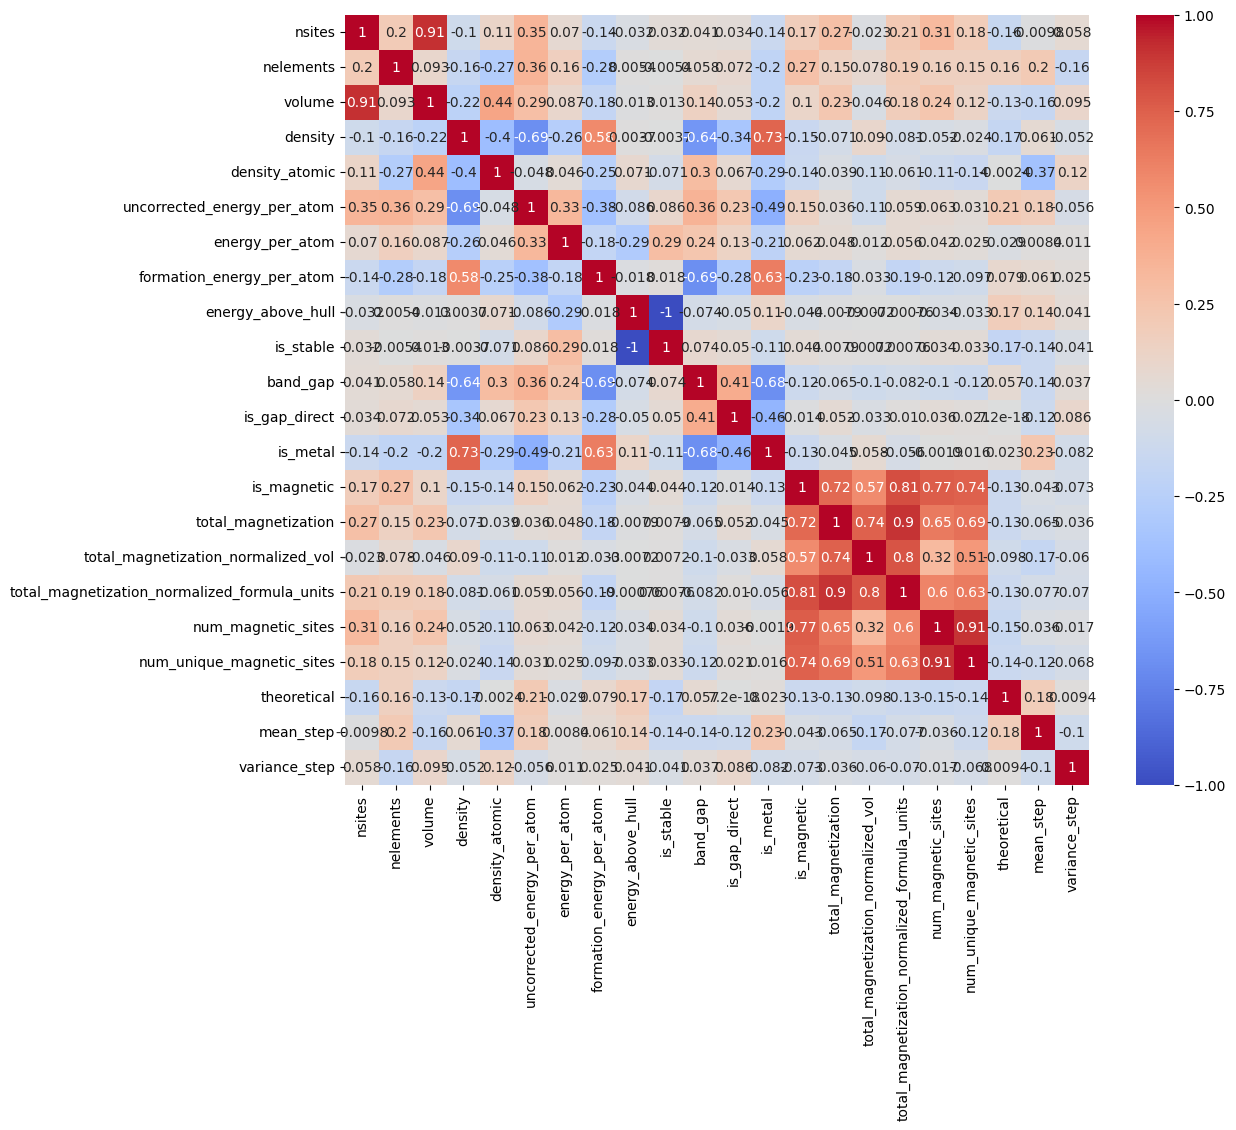
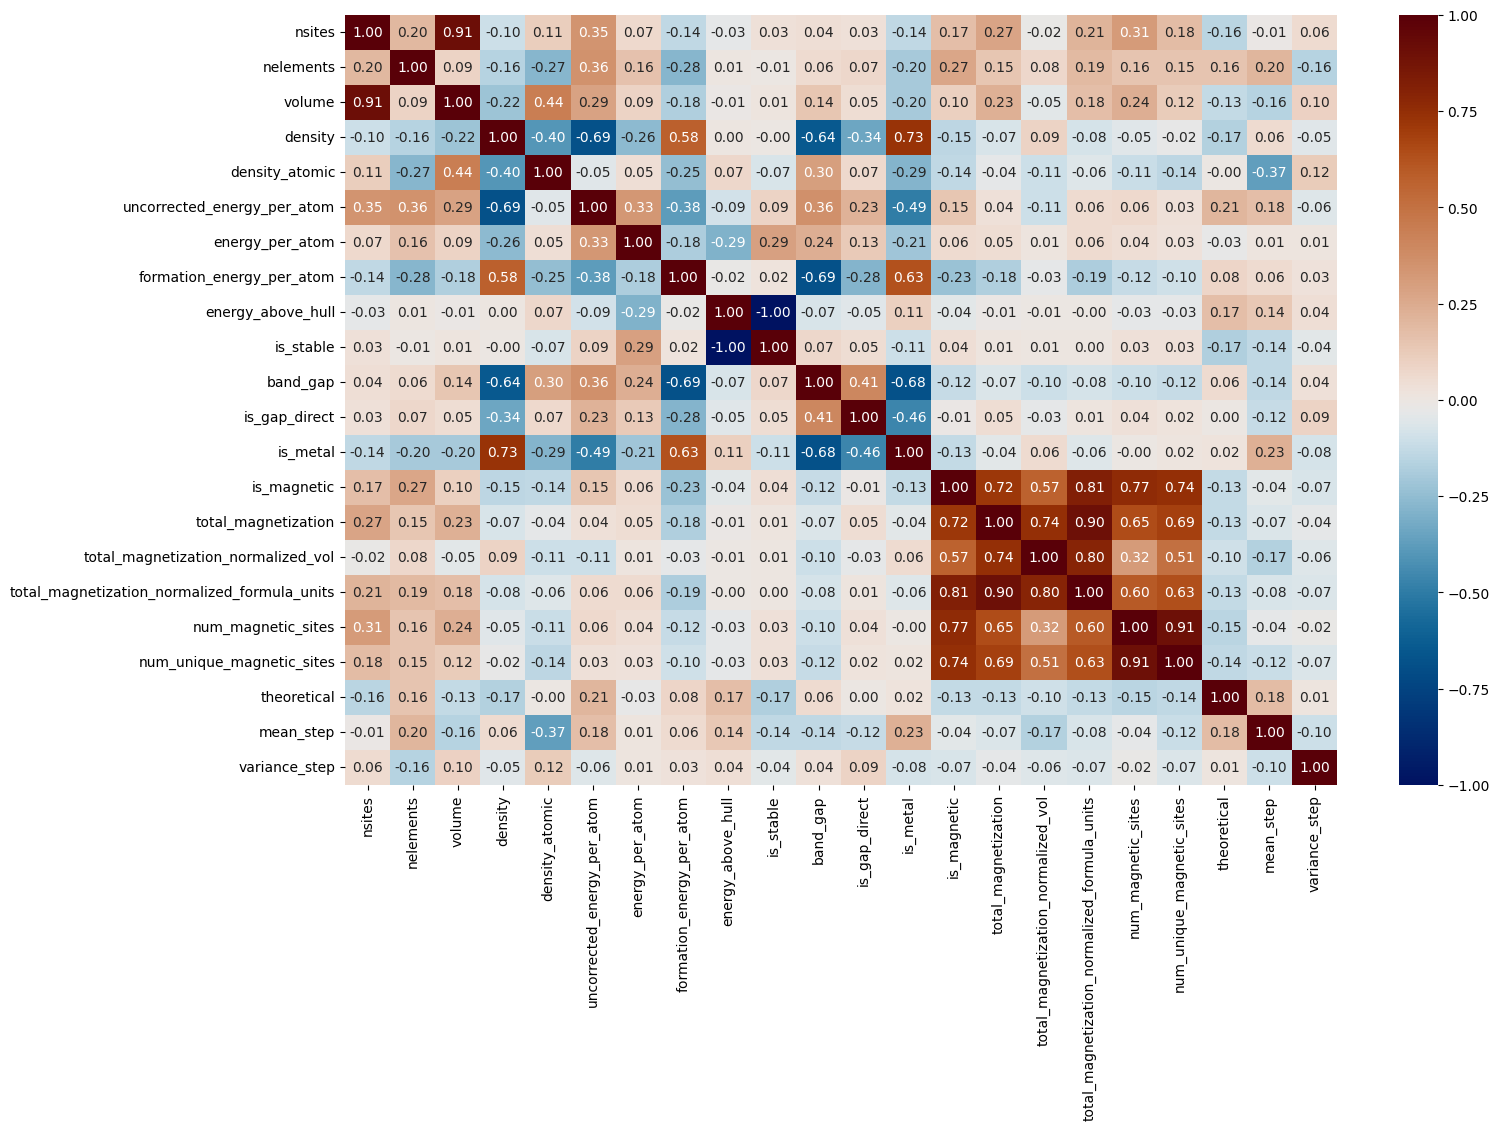
correlation

diff --git a/main/src/visualisation_for_paper.py b/main/src/visualisation_for_paper.py
@@ -524,6 +524,7 @@ plt.show()
 
 import seaborn as sns
 from scipy.stats import pearsonr, spearmanr, f_oneway, ttest_ind
+from cmcrameri import cm
 
 mpd_descriptors = pd.read_csv('all_mpd_decr.csv').dropna(axis=1).drop(columns='deprecated')
 data = df_final_updated[['mpd_id','model', 'mean_step', 'variance_step']].sort_values(by='variance_step', ascending=True).head(101)
@@ -537,13 +538,15 @@ df[boolenas] = df[boolenas].astype(int)
 
 numeric_cols = df.select_dtypes(include=np.number).columns
 numeric_features = df.select_dtypes(include=['int64', 'float64']).columns.tolist()
-numeric_features.remove('variance_step')
+
+colum_to_correlate = 'mean_step'
+numeric_features.remove(colum_to_correlate)
 
 corr_results = []
 
 for feature in numeric_features:
-    pearson_corr, pearson_p = pearsonr(df[feature], df['variance_step'])
-    spearman_corr, spearman_p = spearmanr(df[feature], df['variance_step'])
+    pearson_corr, pearson_p = pearsonr(df[feature], df[colum_to_correlate])
+    spearman_corr, spearman_p = spearmanr(df[feature], df[colum_to_correlate])
     corr_results.append({
         'feature': feature,
         'pearson_corr': pearson_corr,
@@ -552,12 +555,16 @@ for feature in numeric_features:
         'spearman_p': spearman_p
     })
 
+# for pearson corr : +1/-1 perfect line relation, 0 nothing 
+# for pearson p : p<0.05 is statistically significant corr, other like a noise 
+
+
 corr_df = pd.DataFrame(corr_results).dropna()
 corr_df = corr_df.sort_values(by='pearson_corr', key=abs, ascending=False)
 print(corr_df)
+corr_df.to_csv('correlation_results_mean_TC.csv')
 
-
-plt.figure(figsize=(12,10))
-sns.heatmap(df[numeric_features + ['variance_step']].corr(), annot=True, cmap='coolwarm')
+plt.figure(figsize=(16,10))
+sns.heatmap(df[numeric_cols].corr(), fmt=".2f", annot=True, cmap=cm.vik)
 plt.show()
 
